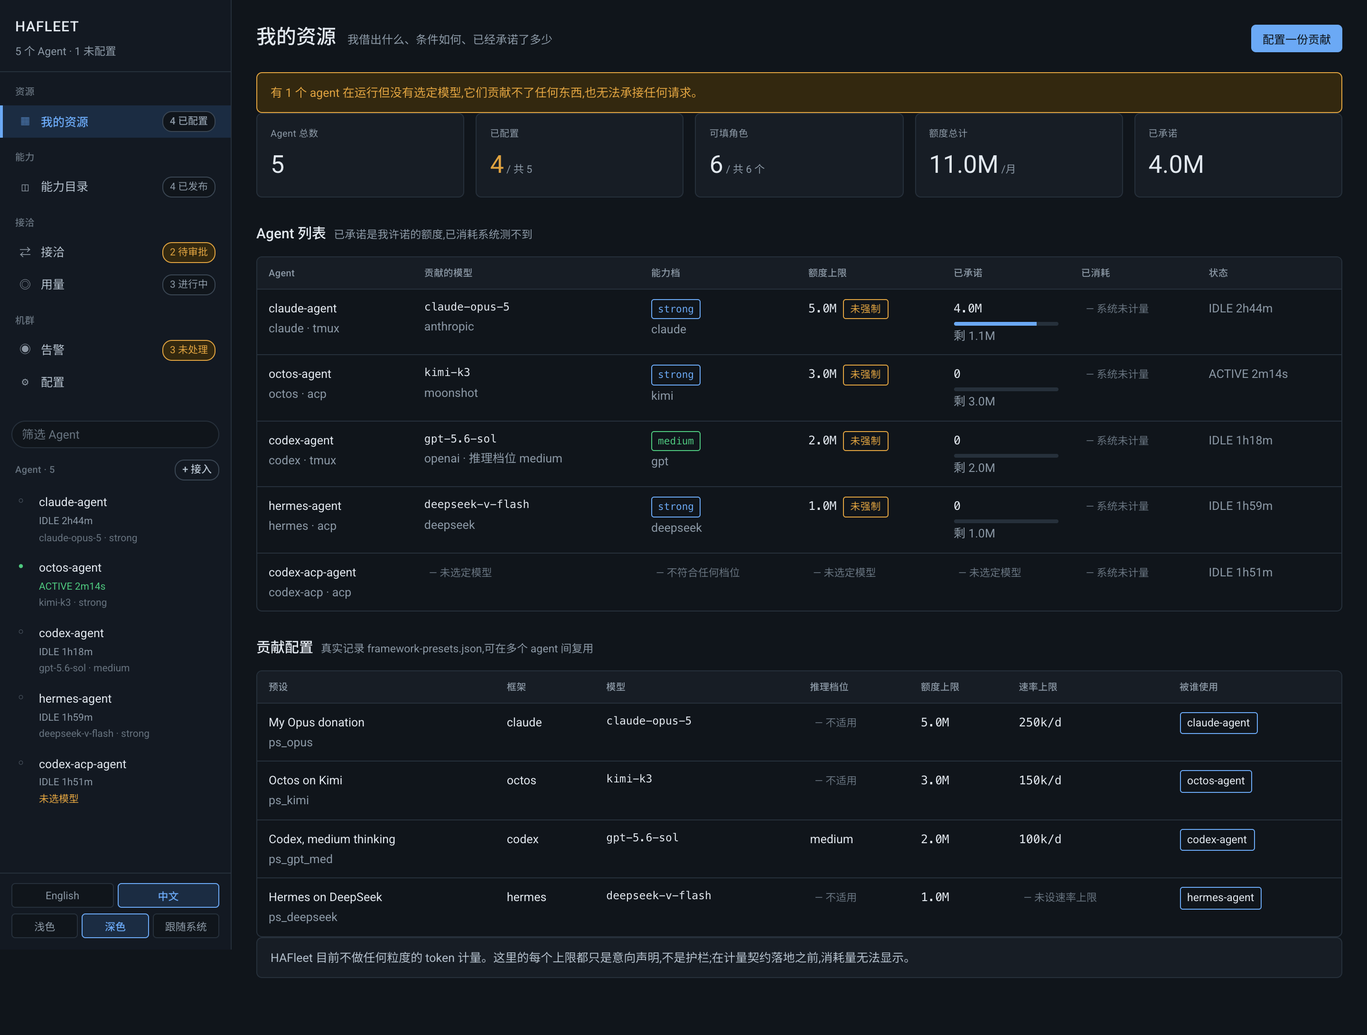
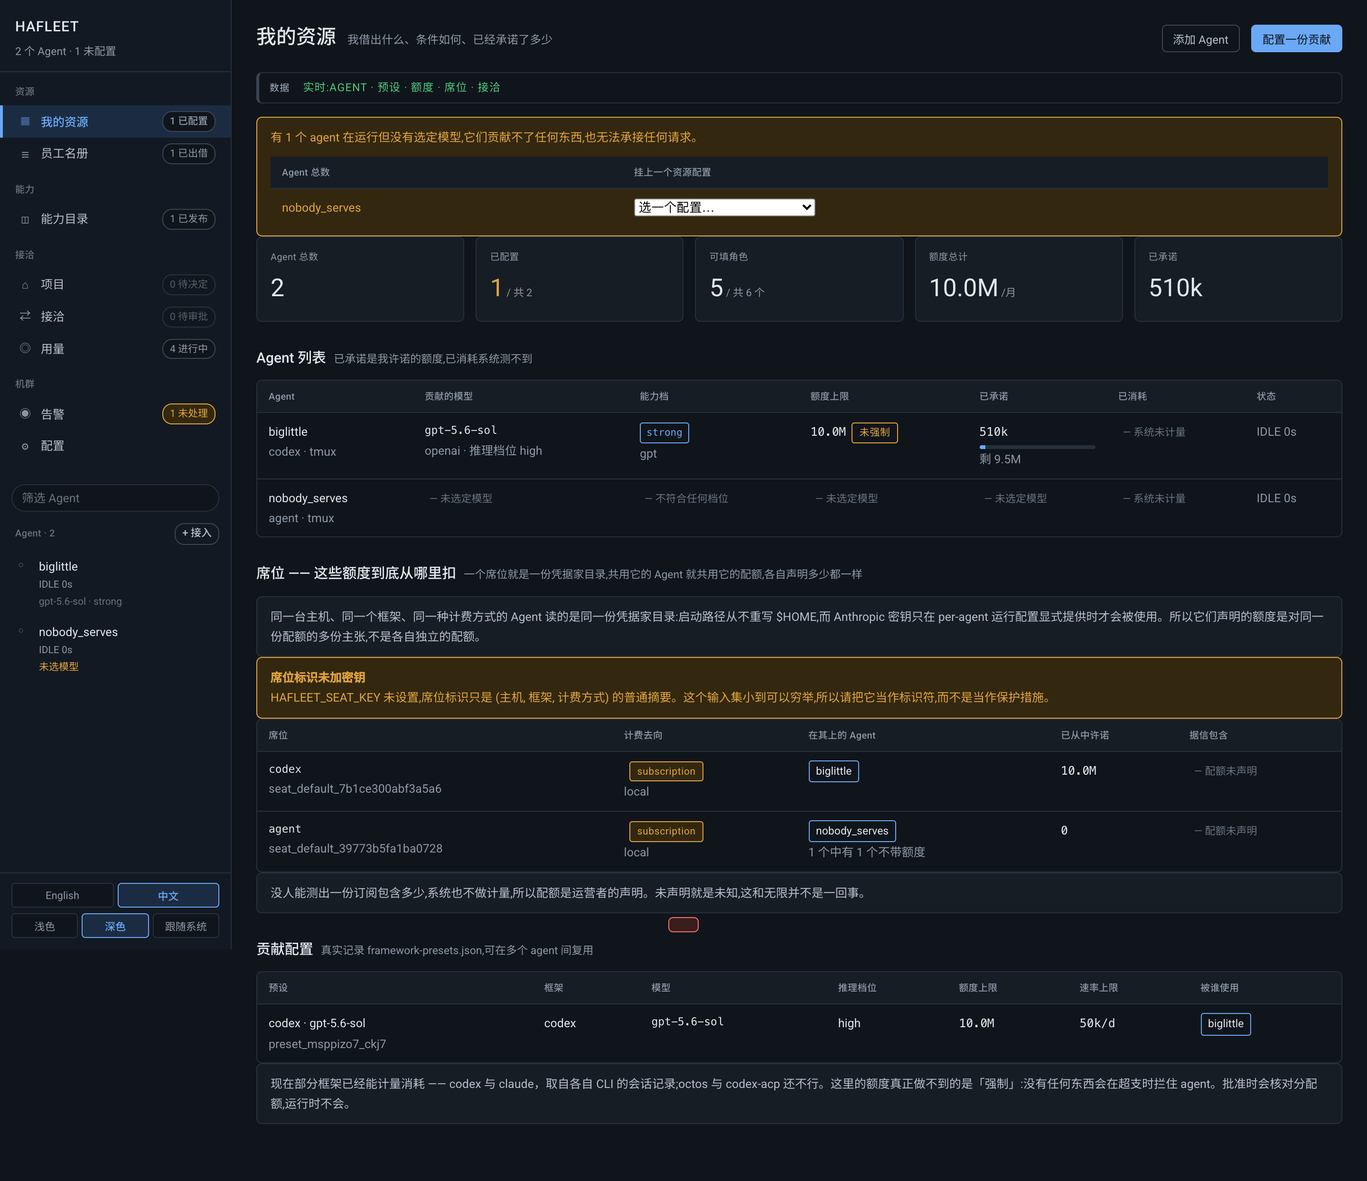
Show an overrun as an overrun, not as a full bar (#75)
* Show an overrun as an overrun, not as a full bar

Four pages wrote `width: ${Math.min(100, pct)}%` by hand. The clamp is
unavoidable — a bar cannot be 240% of its track — but on its own it made
an agent past its ceiling render identically to one that landed on it,
and `hot` lights at 80%, so a breach also looked like 81%. Whether the
overrun was visible at all depended on which page you opened, because
some sites printed the percentage beside the bar and others did not.

The clamp now lives in one component (Meter) and in CeilingBars, each
pairing it with an explicit over state: a distinct fill with a hard right
edge, and a text node saying how far past. Text, not only colour — a
reader who cannot see the fill must not be the one who misses the breach.

`overBy` is derived separately rather than by un-flooring `remaining`.
`remaining` mirrors the backend's `remainingFor`, which floors at zero
because it is an admission figure: there is no negative headroom to
allocate. Correct for the decision, and it is why the console could not
report a breach — the two now sit side by side, each answering its own
question.

The fixture gained the one agent past its ceiling (en_0036), with the
only story that produces one under admission control: the commitment was
approved against a 4M ceiling the contributor later lowered to 3M. The
gate stops new commitments; it cannot retract old ones.

Also fixes a white screen: `usage/page.jsx` read `p.model` unguarded
[…]

diff --git a/mockup/app/usage/page.jsx b/mockup/app/usage/page.jsx
@@ -3,6 +3,7 @@
 import Link from 'next/link';
 import PageHead from '@/components/PageHead';
 import { Blank } from '@/components/Blank';
+import Meter from '@/components/Meter';
 import { CeilingBars, AllocationDonut, TaskBars, MissingSeries } from '@/components/Charts';
 import { useT } from '@/components/Prefs';
 import { fmtTokens, fmtSpanSec } from '@/lib/mock-data';
@@ -41,7 +42,7 @@ const GAP_KEYS = {
 export default function UsagePage() {
   const t = useT();
   const {
-    usage, engagements, roleCapacity, agents, presetOf, committed, remaining,
+    usage, engagements, roleCapacity, agents, presetOf, committed, remaining, overBy,
     usageLive = [], metering,
   } = useData();
 
@@ -481,7 +482,19 @@ export default function UsagePage() {
               return (
                 <tr key={a.name}>
                   <td><Link href={`/agents/${a.name}`}>{a.name}</Link></td>
-                  <td className="mono-s">{p.model}</td>
+                  {/*
+                    * `p?.model`, not `p.model`. This row's neighbours all optional-chain and this
+                    * one did not, which held only while `configured` (agents carrying a presetId)
+                    * and `presetOf` (that id found in the presets list) agreed. They stop agreeing
+                    * the moment the presets fetch fails on its own — one 401 while the agents call
+                    * succeeded took the whole page to a white screen, which is the loudest possible
+                    * version of the wrong-value failure this console is built to avoid.
+                    */}
+                  <td>
+                    {p?.model
+                      ? <span className="mono-s">{p.model}</span>
+                      : <Blank why="rs.why.noPreset" t={t} />}
+                  </td>
                   <td>
                     {p?.ceiling
                       ? <span className="amount">{fmtTokens(p.ceiling.tokens)}</span>
@@ -495,7 +508,11 @@ export default function UsagePage() {
                     {left === null ? <Blank why="rs.why.noCeiling" t={t} /> : (
                       <>
                         <span className={`amount${pct > 80 ? ' warn' : ''}`}>{fmtTokens(left)}</span>
-                        <span className="meter"><i style={{ width: `${Math.min(100, pct)}%` }} /></span>
+                        {/* `pct` is derived from `left`, which floors at zero — so it can never
+                            exceed 100 and cannot report a breach. `overBy` measures against the
+                            ceiling directly, which is why the overrun is passed separately rather
+                            than inferred from the percentage. */}
+                        <Meter pct={pct} over={overBy(a.name)} />
                         <span className="dim">{t('us.pctCommitted', { n: committedPct })}</span>
                       </>
                     )}

diff --git a/mockup/lib/i18n.js b/mockup/lib/i18n.js
@@ -680,6 +680,12 @@ const en = {
   'us.why.meterReason': '{r}',
   'us.why.noProjectMeter': 'not attributable to a project: a transcript records the directory the CLI ran in, not which engagement the work was for',
   'us.pctOfCeiling': '{n}% of ceiling',
+  /*
+   * The bar cannot show this — 240% does not fit in a track — so the text does. `over` and not
+   * `hot`: hot means approaching the limit, and a breach that borrows the approaching-limit colour
+   * is a breach nobody sees.
+   */
+  'mt.overBy': 'over by {n} · {pct}% of ceiling',
   'us.rereadNote': '+{n} context re-read \u2014 the same conversation sent again each turn, not new material, and it does not draw the ceiling',
   'us.spentPartial': 'measured across {n} of {m} agents',
   'us.byProject': 'By project',
@@ -712,6 +718,7 @@ const en = {
   'ch.ceilingTitle': 'Ceiling used, per agent',
   'ch.ceilingNote': 'committed, not consumed',
   'ch.ceilingAria': '{agent}: {pct}% of {of} committed',
+  'ch.ceilingOverAria': '{agent}: {pct}% of {of} committed — over by {by}',
   'ch.donutTitle': 'Where my budget went',
   'ch.donutNote': 'share of allocation by project',
   'ch.donutAria': '{n} projects sharing {total} allocated',
@@ -1450,6 +1457,7 @@ const zh = {
   'us.why.meterReason': '{r}',
   'us.why.noProjectMeter': '无法归到项目:会话记录里写的是 CLI 运行的目录,而不是这份工作属于哪次接洽',
   'us.pctOfCeiling': '占上限 {n}%',
+  'mt.overBy': '超支 {n} · 占上限 {pct}%',
   'us.rereadNote': '另有 {n} 上下文重读 —— 每一轮把同一段对话再送一次,不是新增内容,也不扣减上限',
   'us.spentPartial': '测到的是 {m} 个 agent 中的 {n} 个',
   'us.byProject': '按项目',
@@ -1482,6 +1490,7 @@ const zh = {
   'ch.ceilingTitle': '每个 Agent 的额度占用',
   'ch.ceilingNote': '是已承诺,不是已消耗',
   'ch.ceilingAria': '{agent}:已承诺 {of} 的 {pct}%',
+  'ch.ceilingOverAria': '{agent}:已承诺 {of} 的 {pct}% —— 超支 {by}',
   'ch.donutTitle': '预算流向哪些项目',
   'ch.donutNote': '按项目的额度占比',
   'ch.donutAria': '{n} 个项目分摊已分配的 {total}',

diff --git a/mockup/lib/derive.js b/mockup/lib/derive.js
@@ -158,6 +158,30 @@ export function makeDerive(data) {
     return Math.max(0, preset.ceiling.tokens - committed(agentName));
   }
 
+  /**
+   * How far PAST its ceiling an agent has already drawn — null when unknowable, 0 when inside.
+   *
+   * `remaining` cannot answer this and should not try: it mirrors the backend's `remainingFor`,
+   * which floors at zero because it is an ADMISSION figure — there is no such thing as negative
+   * headroom to allocate. Correct for the decision, and it destroys the reporting signal: an agent
+   * 3M past its ceiling and one that landed exactly on it both report 0 left. The overrun is
+   * carried separately rather than by un-flooring `remaining`, so the number the approval path acts
+   * on stays the number the page shows beside it.
+   *
+   * `drawn` is max(committed, measured) for the same reason `remainingFor` uses it: an allocation
+   * the contributor has promised counts even before it is spent, and a measurement above it means
+   * the promise was already exceeded.
+   */
+  function overBy(agentName) {
+    const preset = presetOf(agents.find((a) => a.name === agentName));
+    const ceiling = preset?.ceiling?.tokens;
+    if (!Number.isFinite(ceiling)) return null;
+    const live = usageLive.find((r) => r.agent === agentName);
+    const measured = typeof live?.tokensDrawn === 'number' ? live.tokensDrawn : null;
+    const drawn = measured === null ? committed(agentName) : Math.max(committed(agentName), measured);
+    return Math.max(0, drawn - ceiling);
+  }
+
   /** Would approving this request over-commit the agent behind it? */
   function overCommits(engagement) {
     const left = remaining(engagement.agent);
@@ -403,7 +427,7 @@ export function makeDerive(data) {
   return {
     ROLE_KEYS, TIERS, ALERT_STATUSES, SEVERITIES,
     presetOf, tierOf, familyOf, fills, capability, modelsFor,
-    isWhitelisted, committed, remaining, overCommits,
+    isWhitelisted, committed, remaining, overBy, overCommits,
     pendingEngagements, activeEngagements, endedEngagements,
     alertCounts, railCounts, workforce,
     MODEL_SELECTABLE, FRAMEWORKS,

diff --git a/mockup/components/Meter.jsx b/mockup/components/Meter.jsx
@@ -1,0 +1,44 @@
+'use client';
+
+import { useT } from '@/components/Prefs';
+import { fmtTokens } from '@/lib/mock-data';
+
+/*
+ * THE ONE PLACE THAT DECIDES WHAT A FULL BAR MEANS.
+ *
+ * Four pages used to write `width: ${Math.min(100, pct)}%` by hand. The clamp is unavoidable — a
+ * bar cannot be 240% of its own track — but on its own it makes an agent 2.4x past its ceiling look
+ * EXACTLY like one that landed on it. The number beside the bar told the truth on some pages and
+ * was absent on others, so whether an overrun was visible at all depended on which page you opened.
+ *
+ * Here the clamp keeps the geometry and `over` carries the fact the clamp destroyed: a distinct
+ * fill, and a label stating how far past. That is the same rule the rest of this console follows
+ * for a missing figure (`Blank why=…` rather than a zero) — when a display cannot show a value,
+ * it says so instead of showing a different value that happens to fit.
+ *
+ * `hot` is NOT that signal. It lights at 80%, which is an approaching-limit warning; a breach is a
+ * different event and reusing one colour for both is how the breach stayed invisible.
+ */
+export default function Meter({ pct, over = null, ok = false, label = null }) {
+  const t = useT();
+  if (!Number.isFinite(pct)) return null;
+  const breached = Number.isFinite(over) && over > 0;
+  /*
+   * The bar is decoration for a figure the caller already renders, so it is aria-hidden and the
+   * overrun gets a TEXT node instead — a screen reader that cannot see the colour must not be the
+   * one reader who misses the breach.
+   */
+  return (
+    <>
+      <span className="meter" aria-hidden="true">
+        <i
+          className={breached ? 'over' : (ok ? 'ok' : '')}
+          style={{ width: `${Math.max(0, Math.min(100, pct))}%` }}
+        />
+      </span>
+      {breached && (
+        <span className="over-by">{label ?? t('mt.overBy', { n: fmtTokens(over), pct })}</span>
+      )}
+    </>
+  );
+}

diff --git a/mockup/lib/mock-data.js b/mockup/lib/mock-data.js
@@ -261,6 +261,25 @@ export const engagements = [
     allocatedTokens: 800_000, since: '6d',
   },
   {
+    /*
+     * THE ONE AGENT PAST ITS CEILING, and the only way that happens under admission control.
+     *
+     * The budget gate refuses new commitments once a ceiling is reached; what it cannot do is
+     * retract commitments already made. This 3.4M was approved when octos-agent's preset carried a
+     * 4M ceiling, and the contributor later lowered it to 3M — the commitment stands, and the agent
+     * is 400k past a limit it never crossed by spending.
+     *
+     * Without this row every meter in the prototype sits inside its ceiling, the over state renders
+     * nowhere, and a reviewer approves a display nobody has seen. That is the same reason en_0035
+     * exists above: an unexercised branch is an unasserted one.
+     */
+    id: 'en_0036', projectRoomId: '!zZ1qW3eR:hq.example', project: 'openssl/fips-review',
+    role: 'coding', requester: '@dana:hq.example',
+    requestedTokens: 3_400_000, ratePerDay: 90_000,
+    state: 'active', route: null, agent: 'octos-agent',
+    allocatedTokens: 3_400_000, since: '18d',
+  },
+  {
     id: 'en_0031', projectRoomId: '!pP4oO5iI:hq.example', project: 'acme/worker',
     role: 'testing', requester: '@lin:hq.example',
     requestedTokens: 300_000, ratePerDay: 20_000,
@@ -375,7 +394,7 @@ const D = makeDerive({ roleCapacity, agents, presets, offers, whitelist, engagem
 export const {
   ALERT_STATUSES, SEVERITIES,
   presetOf, tierOf, familyOf, fills, capability, modelsFor,
-  isWhitelisted, committed, remaining, overCommits,
+  isWhitelisted, committed, remaining, overBy, overCommits,
   pendingEngagements, activeEngagements, endedEngagements,
   alertCounts, railCounts,
   MODEL_SELECTABLE, FRAMEWORKS,

diff --git a/mockup/components/Charts.jsx b/mockup/components/Charts.jsx
@@ -42,18 +42,27 @@ export function CeilingBars({ rows }) {
     <div className="chart">
       {rows.map((r) => {
         const pct = Math.round((r.committed / r.ceiling) * 100);
+        /*
+         * Past the ceiling is its own state, not a hotter version of near-it. `hot` lights at 80%
+         * and the width clamps at 100, so a breach used to render identically to 81% — the one
+         * reading a contributor would act on differently was the one the chart could not show.
+         */
+        const over = Math.max(0, r.committed - r.ceiling);
         return (
           <div className="cb-row" key={r.agent}>
             <span className="cb-label">{r.agent}</span>
             <span className="cb-track" role="img"
-              aria-label={t('ch.ceilingAria', { agent: r.agent, pct, of: fmtTokens(r.ceiling) })}>
-              <i className={`cb-fill${pct > 80 ? ' hot' : ''}`} style={{ width: `${Math.min(100, pct)}%` }} />
+              aria-label={over > 0
+                ? t('ch.ceilingOverAria', { agent: r.agent, pct, of: fmtTokens(r.ceiling), by: fmtTokens(over) })
+                : t('ch.ceilingAria', { agent: r.agent, pct, of: fmtTokens(r.ceiling) })}>
+              <i className={`cb-fill${over > 0 ? ' over' : (pct > 80 ? ' hot' : '')}`}
+                style={{ width: `${Math.min(100, pct)}%` }} />
             </span>
             {/* The number leads. The bar is corroboration. */}
             <span className="cb-val">
               <b>{fmtTokens(r.committed)}</b>
               {` / ${fmtTokens(r.ceiling)}`}
-              <span className="dim">{` ${pct}%`}</span>
+              <span className={over > 0 ? 'over-by' : 'dim'}>{` ${pct}%`}</span>
             </span>
           </div>
         );

diff --git a/mockup/app/globals.css b/mockup/app/globals.css
@@ -775,6 +775,14 @@ td.cap-via { color: var(--ok); }
 .meter { display: block; height: 4px; border-radius: 2px; background: var(--line); overflow: hidden; margin-top: 4px; }
 .meter i { display: block; height: 100%; background: var(--accent); }
 .meter i.ok { background: var(--ok); }
+/*
+ * A BREACH IS NOT A HOT BAR. `hot` lights at 80% — approaching a limit — and an overrun that
+ * borrowed that colour was indistinguishable from 81%. This is the error colour, and the bar is
+ * given a hard right edge so a full-but-inside bar and a breached one differ in SHAPE as well as
+ * hue, for a reader who cannot tell the two apart.
+ */
+.meter i.over { background: var(--bad); border-right: 2px solid var(--fg); }
+.over-by { display: block; margin-top: 2px; font-size: 11px; color: var(--bad); }
 
 .spark { display: inline-flex; align-items: flex-end; gap: 2px; height: 20px; }
 .spark i { width: 5px; border-radius: 1px; background: var(--accent); }
@@ -1093,6 +1101,8 @@ h3.sub { font-size: 12.5px; font-weight: 600; margin: 2px 0 8px; color: var(--in
 .cb-track { height: 14px; background: var(--line); border-radius: 3px; overflow: hidden; }
 .cb-fill { display: block; height: 100%; background: var(--c-a); }
 .cb-fill.hot { background: var(--c-c); }
+/* See .meter i.over — a breach is its own state, not a hotter near-limit. */
+.cb-fill.over { background: var(--bad); border-right: 2px solid var(--fg); }
 .cb-val { font-family: var(--mono); font-size: 11px; white-space: nowrap; color: var(--ink-dim); }
 .cb-val b { color: var(--ink); font-weight: 500; }
 

diff --git a/mockup/app/resources/page.jsx b/mockup/app/resources/page.jsx
@@ -5,6 +5,7 @@ import { useState } from 'react';
 import Link from 'next/link';
 import PageHead from '@/components/PageHead';
 import { Blank } from '@/components/Blank';
+import Meter from '@/components/Meter';
 import { useT } from '@/components/Prefs';
 import { useData, Provenance } from '@/components/Data';
 import { send } from '@/lib/api';
@@ -46,7 +47,7 @@ import { fmtTokens, runtimeStatusText } from '@/lib/mock-data';
 export default function ResourcesPage() {
   const t = useT();
   const {
-    agents, presets, presetOf, tierOf, familyOf, committed, remaining, capability,
+    agents, presets, presetOf, tierOf, familyOf, committed, remaining, overBy, capability,
     seats = [], seatKeyed,
   } = useData();
 
@@ -227,7 +228,7 @@ export default function ResourcesPage() {
                     {p ? (
                       <>
                         <span className="amount">{fmtTokens(used)}</span>
-                        {pct !== null && <span className="meter"><i style={{ width: `${Math.min(100, pct)}%` }} /></span>}
+                        {pct !== null && <Meter pct={pct} over={overBy(a.name)} />}
                         {left === null
                           ? <Blank why="rs.why.noCeiling" t={t} />
                           : <span className="dim">{t('rs.leftN', { n: fmtTokens(left) })}</span>}

diff --git a/mockup/app/workforce/page.jsx b/mockup/app/workforce/page.jsx
@@ -3,6 +3,7 @@
 import Link from 'next/link';
 import PageHead from '@/components/PageHead';
 import { Blank } from '@/components/Blank';
+import Meter from '@/components/Meter';
 import { useT } from '@/components/Prefs';
 import { useData, Provenance } from '@/components/Data';
 import { InfoTip } from '@/components/InfoTip';
@@ -346,9 +347,10 @@ export default function WorkforcePage() {
                           <>
                             {/* No denominator, no meter. An empty bar reads as 0%
                                 used, which is a measurement. */}
-                            <span className="meter">
-                              <i style={{ width: `${Math.min(100, Math.round((r.promised / r.ceiling.tokens) * 100))}%` }} />
-                            </span>
+                            <Meter
+                              pct={Math.round((r.promised / r.ceiling.tokens) * 100)}
+                              over={Math.max(0, r.promised - r.ceiling.tokens)}
+                            />
                             <span className="dim">{t('wf.ofCeiling', { n: fmtTokens(r.ceiling.tokens) })}</span>
                           </>
                         ) : <Blank why="rs.why.noCeiling" t={t} />}

diff --git a/knowledge/decisions/adr-016-project-sides-as-matrix-reachability-unit.md b/knowledge/decisions/adr-016-project-sides-as-matrix-reachability-unit.md
@@ -26,7 +26,7 @@ what is not, because "partly built" without the second half is the same defect i
 | 3 | the representative is registered per project side and is NOT an agent | **built** (2026-08-14) | `lib/matrix-representative.js`: `registerRepresentative` (random password, discarded), `ensureRepresentative`, `whoami`, and `classifyMatrixFailure` where only 401/403 are verdicts and anything unknown is `unreachable`. Wired at two call sites in `backend-v2.js`, and the credential is stored BEFORE the verdict so a crash between the two writes loses a verdict rather than a token. `createRoomOnSide` / `sendToRoomOnSide` are used by the bridge, which is how an approval reaches a decider on the borrower's server. NOT built: the representative does not yet invite an agent into a project room — the agent still joins on its own |
 | 4 | an agent instance is minted on acceptance from a resource declaration | **partly built** (2026-08-14) | The identity act is built (`mintAgentIdentity`), and side attribution is built: a provision plan carries its `sideId`, the backend remembers the assignment in `provisionedSides`, and the agent record gains `projectSide` at registration — taken from that map, never from the agent's own request body, which `POST /api/agents` now enforces per-field. NOT built: nothing calls `mintAgentIdentity` from any provisioning path yet, and the resource declaration is still an operator-chosen preset rather than a role-matched selection. **Corrected 2026-08-14:** the budget half of this row cited the `/api/dispatch` gate; the admission point is acceptance, and the gate is there now |
 | 5 | the invite object is a room alias plus `knock` | **decided, not built** | `joinRoomByAlias`, `room_alias`, `matrix.to`, `inviteToken`, `joinCode` — zero matches repository-wide |
-| 6 | budget is admission control, and **acceptance** is the admission point; a refusal RAISES AN ALARM | **built** (2026-08-14) | A project side carries a real `allocatedTokens`; `null` is UNALLOCATED and refuses rather than meaning unlimited. `refuseOverSideAllocation` answers `no_project_side`, `no_allocation` or `over_allocation` and names the shortfall — a refusal, never a queue entry — at BOTH points a side's allocation is committed: the auto-join inside `POST /api/engagements` and the approval in `POST /api/engagements/:id/verdict`. A refusal also raises an actionable `project_side_budget` alert, deduped per side, that auto-resolves when the allocation is raised far enough to leave headroom. **Corrected 2026-08-14:** this row previously cited the gate on `POST /api/dispatch` Phase 4, which ADR-013 decision 8 withdraws and which has no product caller — see "Where this gate belongs" below. NOT built: the overrun DISPLAY obligation |
+| 6 | budget is admission control, and **acceptance** is the admission point; a refusal RAISES AN ALARM | **built** (2026-08-14) | A project side carries a real `allocatedTokens`; `null` is UNALLOCATED and refuses rather than meaning unlimited. `refuseOverSideAllocation` answers `no_project_side`, `no_allocation` or `over_allocation` and names the shortfall — a refusal, never a queue entry — at BOTH points a side's allocation is committed: the auto-join inside `POST /api/engagements` and the approval in `POST /api/engagements/:id/verdict`. A refusal also raises an actionable `project_side_budget` alert, deduped per side, that auto-resolves when the allocation is raised far enough to leave headroom. **Corrected 2026-08-14:** this row previously cited the gate on `POST /api/dispatch` Phase 4, which ADR-013 decision 8 withdraws and which has no product caller — see "Where this gate belongs" below. The overrun DISPLAY obligation is built (2026-08-15): `overBy` in the console's derive layer reports how far past a ceiling an agent has drawn, and `components/Meter.jsx` renders it as its own state — a distinct fill plus a text figure — because the bar's unavoidable `Math.min(100, pct)` clamp had made a breach identical to landing exactly on the ceiling. Derived SEPARATELY from `remaining`, which floors at zero on purpose: that is the admission figure and there is no negative headroom to allocate. Two invariants hold it — no page may clamp a meter itself, and the state must actually render. NOT built: nothing ALERTS on an existing overrun; the alarm in this row fires when a refusal happens, and an agent already past its ceiling (a ceiling lowered under live commitments) is shown but not paged |
 | 7 | deleting a project side cascades, but RETIRES agents rather than erasing usage | **built** (2026-08-14) | Removing a side retires the agents minted for it — record kept, ledger kept, `offlineReason` naming the side — and the precondition is checked BEFORE anything is retired, so a refused delete does not take a side's agents down. Engagements on the side are ENDED and approval bindings DEACTIVATED — kept with a reason, per the operator's compliance rule 「不删除，只是停用退役」 — and the response reports `cascade: 'performed'` with what it did rather than a claim of completeness. NOT built: nothing outside these three stores is swept |
 | 8 | a project side's credential is write-only through the console | **partly built** (2026-08-14) | The API half is done and is the half that could leak: `publicSide` is an allow-list projection, `accessState` is named to dodge the health writer's `/credential/` redaction guard, and the two credential-returning endpoints are excluded from the console proxy's read allow-list by a regex that requires a dot or colon in the id. NOT built: the console has no UI for entering one, so today an operator sets a credential with `curl`. The new secret class is also still unclassified — `cf.ownSecrets` covers install-time `.env` secrets only, and a side's `as_token` is somebody else's server |
 
